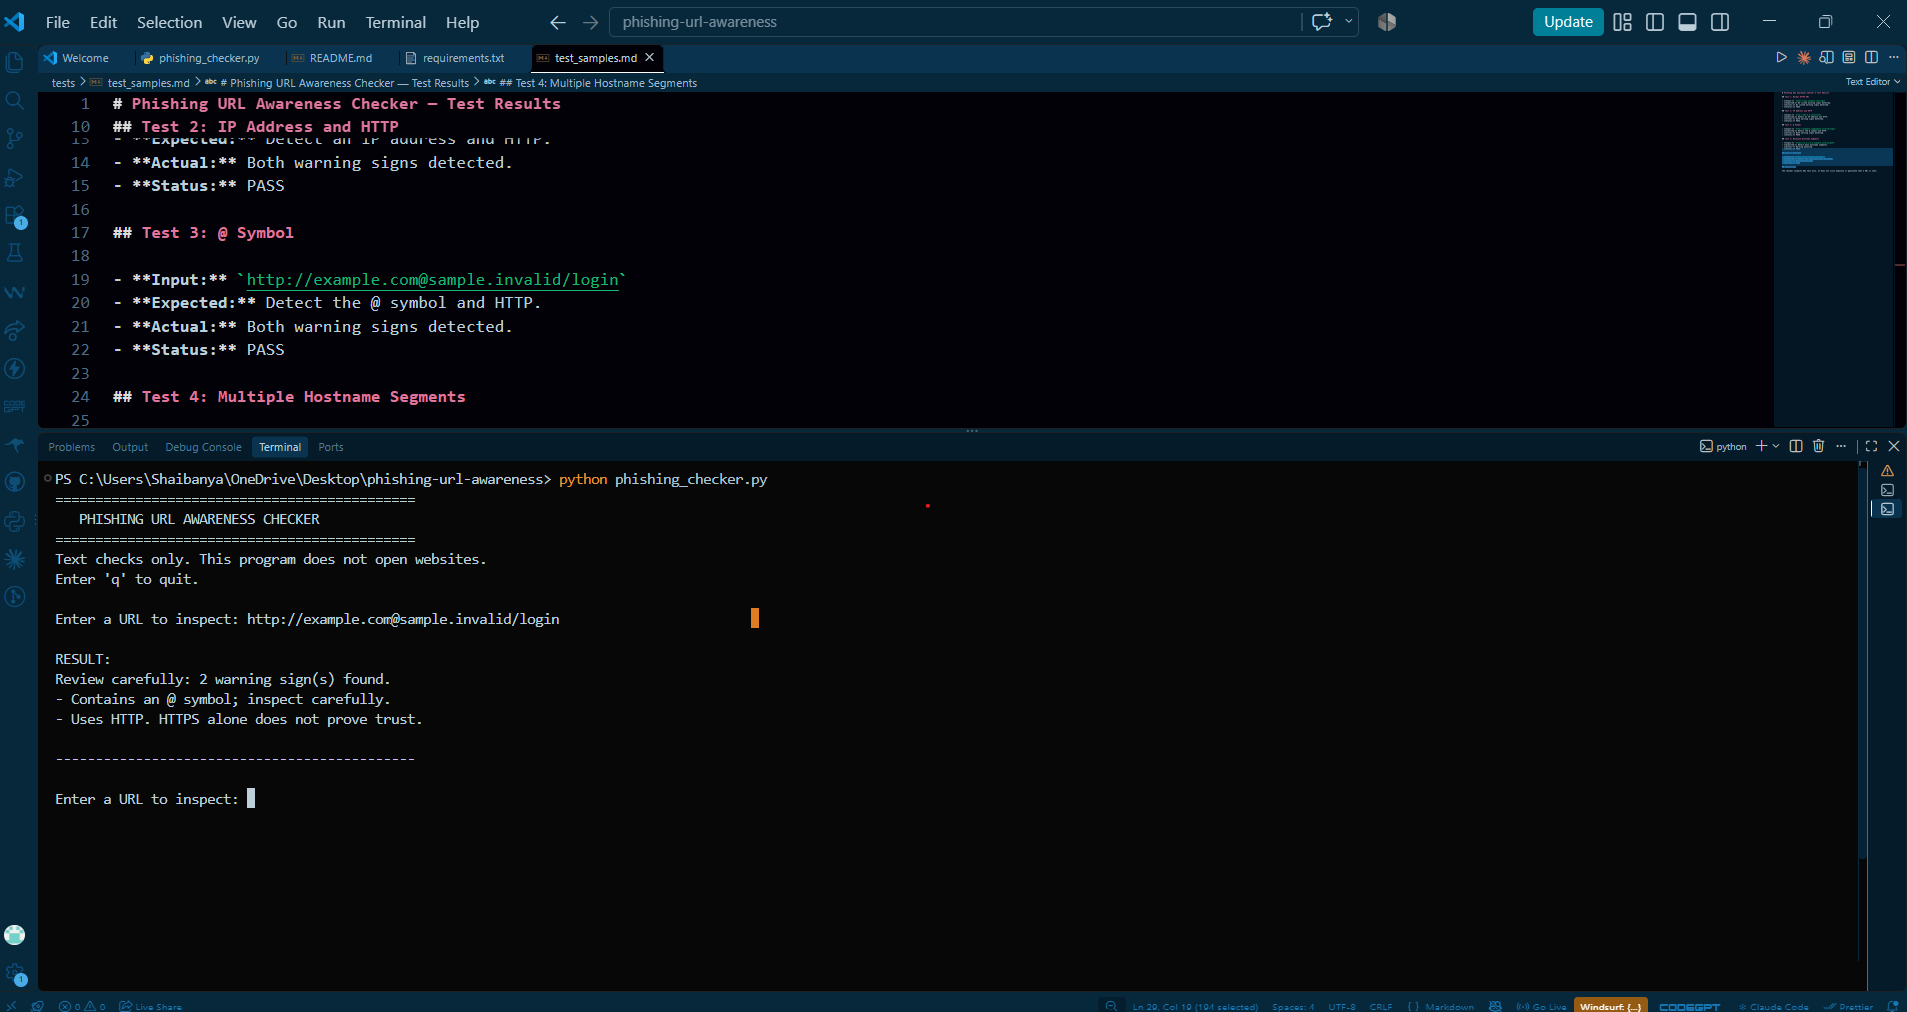
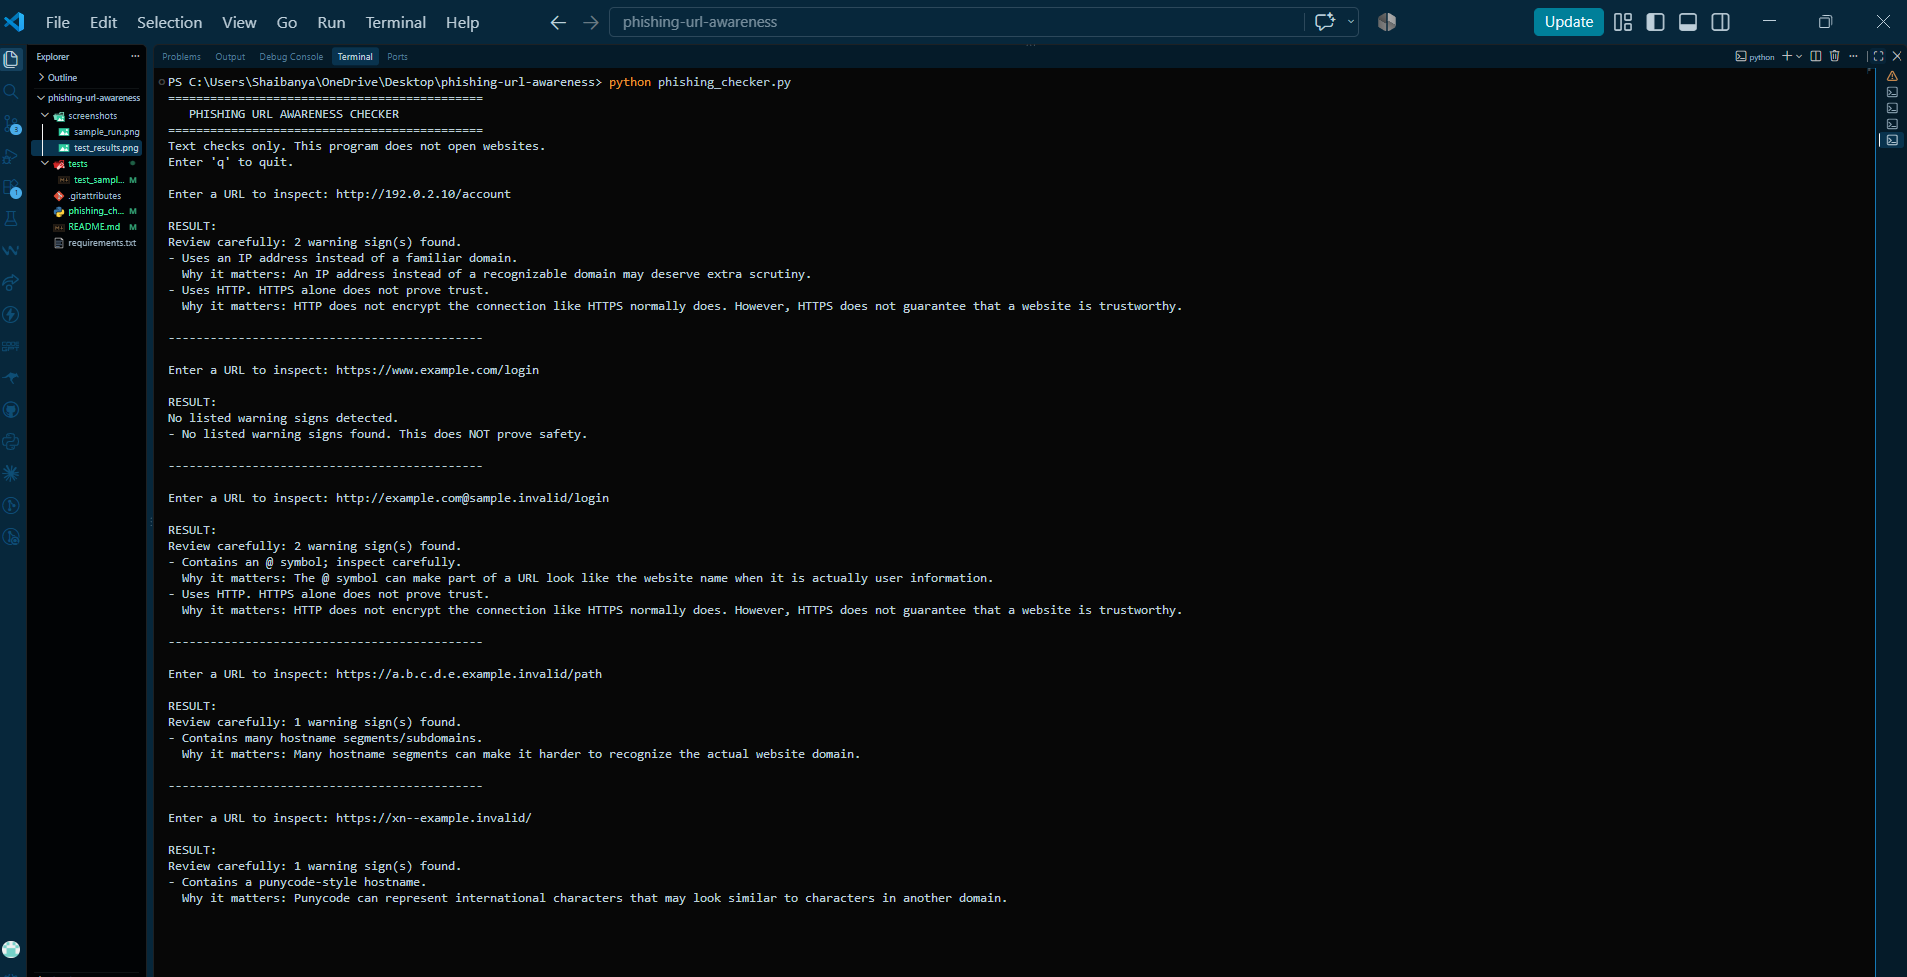
Complete phishing URL awareness checker

diff --git a/phishing_checker.py b/phishing_checker.py
@@ -1,5 +1,33 @@
+
 import re
 from urllib.parse import urlparse
+
+
+# Improvement 2: Explain why each warning sign matters.
+WARNING_REASONS = {
+    "Contains an @ symbol; inspect carefully.":
+        "The @ symbol can make part of a URL look like the website name "
+        "when it is actually user information.",
+
+    "Unusually long URL (over 100 characters).":
+        "An unusually long URL can hide confusing or misleading details.",
+
+    "Uses an IP address instead of a familiar domain.":
+        "An IP address instead of a recognizable domain may deserve "
+        "extra scrutiny.",
+
+    "Contains many hostname segments/subdomains.":
+        "Many hostname segments can make it harder to recognize "
+        "the actual website domain.",
+
+    "Contains a punycode-style hostname.":
+        "Punycode can represent international characters that may "
+        "look similar to characters in another domain.",
+
+    "Uses HTTP. HTTPS alone does not prove trust.":
+        "HTTP does not encrypt the connection like HTTPS normally does. "
+        "However, HTTPS does not guarantee that a website is trustworthy.",
+}
 
 
 def inspect_url(raw_url):
@@ -10,30 +38,54 @@ def inspect_url(raw_url):
         return ["No URL entered."]
 
     candidate = url if "://" in url else "http://" + url
-    parsed = urlparse(candidate)
-    host = (parsed.hostname or "").lower()
+
+    # Improvement 1: Handle malformed URLs without crashing.
+    try:
+        parsed = urlparse(candidate)
+        host = (parsed.hostname or "").lower()
+    except ValueError:
+        return ["This text is not a valid URL format."]
 
     if not host:
         return ["Could not identify a hostname."]
 
+    # Check 1: @ symbol
     if "@" in candidate:
-        findings.append("Contains an @ symbol; inspect carefully.")
+        findings.append(
+            "Contains an @ symbol; inspect carefully."
+        )
 
+    # Check 2: URL length
     if len(url) > 100:
-        findings.append("Unusually long URL (over 100 characters).")
+        findings.append(
+            "Unusually long URL (over 100 characters)."
+        )
 
+    # Check 3: IPv4-style hostname
     if re.fullmatch(r"(?:\d{1,3}\.){3}\d{1,3}", host):
-        findings.append("Uses an IP address instead of a familiar domain.")
+        findings.append(
+            "Uses an IP address instead of a familiar domain."
+        )
 
+    # Check 4: Many hostname segments
     labels = [part for part in host.split(".") if part]
+
     if len(labels) >= 5:
-        findings.append("Contains many hostname segments/subdomains.")
+        findings.append(
+            "Contains many hostname segments/subdomains."
+        )
 
+    # Check 5: Punycode marker
     if "xn--" in host:
-        findings.append("Contains a punycode-style hostname.")
+        findings.append(
+            "Contains a punycode-style hostname."
+        )
 
+    # Check 6: HTTP scheme
     if parsed.scheme.lower() == "http":
-        findings.append("Uses HTTP. HTTPS alone does not prove trust.")
+        findings.append(
+            "Uses HTTP. HTTPS alone does not prove trust."
+        )
 
     if not findings:
         findings.append(
@@ -65,15 +117,27 @@ def main():
             "No listed warning signs found. This does NOT prove safety."
         ]:
             print("No listed warning signs detected.")
+
         elif findings == ["No URL entered."]:
             print("Please enter a URL.")
+
         elif findings == ["Could not identify a hostname."]:
             print("Unable to inspect this input.")
+
+        elif findings == ["This text is not a valid URL format."]:
+            print("Unable to inspect this malformed URL.")
+
         else:
-            print(f"Review carefully: {len(findings)} warning sign(s) found.")
+            print(
+                f"Review carefully: {len(findings)} warning sign(s) found."
+            )
 
         for finding in findings:
             print("- " + finding)
+
+            # Display the reason associated with each warning.
+            if finding in WARNING_REASONS:
+                print("  Why it matters: " + WARNING_REASONS[finding])
 
         print("\n" + "-" * 45 + "\n")
 

diff --git a/README.md b/README.md
@@ -1,39 +1,196 @@
-# Phishing URL Awareness Checker
+# EWB Phishing URL Awareness Checker
 
 ## Overview
-A beginner-friendly Python command-line project that checks URLs for selected warning signs associated with potentially suspicious links.
+
+Phishing is a type of online fraud in which attackers use fake links or messages to trick people into sharing sensitive information, such as passwords, OTPs, or payment details.
+
+The Phishing URL Awareness Checker is a beginner-friendly Python project that examines URL text for common phishing warning signs. It helps users recognize potentially suspicious URL patterns without opening websites or sending information anywhere.
+
+This is an educational project designed to improve awareness of online safety.
 
 ## Features
-- Detects the `@` symbol.
-- Flags URLs longer than 100 characters.
-- Detects IPv4-style hostnames.
-- Flags hostnames with five or more segments.
-- Detects the `xn--` punycode marker.
-- Flags URLs using HTTP.
-- Allows multiple URLs to be checked in one session.
+
+The program checks for six warning signs:
+
+1. **@ Symbol:** Flags URLs containing an `@` symbol because it can make the destination confusing.
+2. **Unusually Long URL:** Flags URLs longer than 100 characters.
+3. **IP Address:** Flags URLs that use an IPv4-style address instead of a familiar domain name.
+4. **Many Hostname Segments:** Flags hostnames containing five or more segments.
+5. **Punycode Hostname:** Flags hostnames containing the `xn--` marker, which can represent international characters.
+6. **HTTP Scheme:** Flags URLs using HTTP because the connection does not have the transport encryption normally provided by HTTPS.
+
+Additional features:
+
+- Accepts URL text through a command-line interface.
+- Handles empty input.
+- Handles certain malformed URL formats without crashing.
+- Provides explanations of why each detected warning sign matters.
+- Allows the user to exit by entering `q`, `quit`, or `exit`.
+- Does not visit websites or make network requests.
+
+**Important:** These checks identify warning signs, not confirmed phishing attacks. HTTPS does not guarantee that a website is trustworthy, and the absence of warnings does not prove that a URL is safe.
 
 ## Requirements
-- Python 3.10 or newer.
-- No external packages required.
+
+- Python 3.10 or later
+- A terminal or command prompt
+- No additional Python packages required
+
+The program uses Python's standard library.
+
+## Project Structure
+
+```text
+phishing-url-awareness/
+├── screenshots/
+│   ├── sample_run.png
+│   └── test_results.png
+├── tests/
+│   └── test_samples.md
+├── phishing_checker.py
+├── README.md
+└── requirements.txt
+```
 
 ## How to Run
-1. Install Python.
-2. Open the project folder in VS Code.
-3. Open the terminal.
-4. Run `python phishing_checker.py`.
-5. Enter a URL to inspect.
-6. Enter `q` to exit.
+
+### Windows
+
+1. Open the project folder in Visual Studio Code.
+2. Open the terminal.
+3. Run the following command:
+
+```bash
+python phishing_checker.py
+```
+
+If the `python` command is unavailable, try:
+
+```bash
+py phishing_checker.py
+```
+
+### macOS or Linux
+
+Open a terminal in the project folder and run:
+
+```bash
+python3 phishing_checker.py
+```
+
+### Exit the Program
+
+Enter:
+
+```text
+q
+```
+
+You can also enter `quit` or `exit`.
+
+## Example Output
+
+Example input:
+
+```text
+http://192.0.2.10/account
+```
+
+Example output:
+
+```text
+RESULT:
+Review carefully: 2 warning sign(s) found.
+- Uses an IP address instead of a familiar domain.
+  Why it matters: An IP address instead of a recognizable domain may deserve extra scrutiny.
+- Uses HTTP. HTTPS alone does not prove trust.
+  Why it matters: HTTP does not encrypt the connection like HTTPS normally does. However, HTTPS does not guarantee that a website is trustworthy.
+```
+
+The exact formatting depends on the program's current output.
 
 ## Testing
-Five sample URLs are documented in `tests/test_samples.md`.
 
-## Limitations
-This tool inspects URL text only. It does not visit websites, query live threat databases, or guarantee that a URL is safe. It may produce false positives or miss malicious URLs.
+The program is tested using sample URL strings to check whether its warning signs work as expected.
 
-## Ethical Use
-This project is intended for educational awareness and defensive cybersecurity learning. Do not enter passwords or other sensitive information on suspicious websites.
+The test records are maintained in `tests/test_samples.md`.
+
+| Test | Input | Expected result |
+|---|---|---|
+| 1 | `https://www.example.com/login` | No listed warning signs; the program must clarify that this does not prove safety. |
+| 2 | `http://192.0.2.10/account` | IP-address and HTTP warnings. |
+| 3 | `http://example.com@sample.invalid/login` | @-symbol and HTTP warnings. |
+| 4 | `https://a.b.c.d.e.example.invalid/path` | Many hostname segments warning. |
+| 5 | `https://xn--example.invalid/` | Punycode warning. |
+| 6 | `http://[bad` | Malformed URL handled without an unexpected crash. |
+
+The first five cases are the workbook's sample tests. The sixth case checks the malformed-input improvement.
+
+**Testing note:** Record the actual output and PASS or FAIL status in `tests/test_samples.md` after running the program. Do not mark a test as passed unless you have verified its result.
+
+## Screenshots
+
+### Sample Program Run
+
+This screenshot shows an example of the program running in the terminal.
+
+![Sample run](screenshots/sample_run.png)
+
+### Test Results
+
+This screenshot shows additional URL checks and their results.
+
+![Test results](screenshots/test_results.png)
 
 ## Improvements
-- Added an interactive loop for checking multiple URLs.
-- Added warning-sign counts.
-- Added explanatory messages for detected warning signs.
+
+### 1. Malformed URL Handling
+
+**What changed:** Added `try/except ValueError` around URL parsing.
+
+**Why it matters:** Some malformed URL inputs can cause Python's URL parser to raise an error. Handling that error allows the program to display a helpful message instead of unexpectedly stopping.
+
+**How it is tested:** Enter the sample malformed input `http://[bad` and confirm that the program displays an invalid-format message without crashing. Rerun all five required sample tests to check that the original functionality still works.
+
+### 2. Explanations for Warning Signs
+
+**What changed:** Added a `WARNING_REASONS` dictionary that associates warning messages with explanations. When a warning is detected, the program displays the corresponding reason.
+
+**Why it matters:** Explanations help users understand why a URL pattern deserves attention instead of simply displaying a warning.
+
+**How it is tested:** Run sample URLs that trigger different warning signs and verify that each warning is followed by its explanation. Rerun all five required sample tests.
+
+## Limitations
+
+This project is an educational awareness tool, not a complete phishing detection system.
+
+- It only examines the text entered by the user.
+- It does not open URLs or visit websites.
+- It does not check website reputation or domain registration.
+- It does not scan for malware.
+- It does not determine whether a website is legitimate.
+- Some legitimate URLs may trigger warnings.
+- Some malicious URLs may trigger no warnings.
+- HTTPS does not guarantee that a website is safe.
+- No listed warning signs does **NOT** mean a URL is safe.
+
+Users should check website addresses carefully and avoid entering sensitive information on unfamiliar or suspicious websites.
+
+## Ethical Use
+
+This project is intended for cybersecurity education and online safety awareness.
+
+- Use sample URL strings for testing.
+- Do not collect passwords, OTPs, payment details, or other sensitive information.
+- Do not use the project to deceive people.
+- Do not test websites or systems without permission.
+- Do not treat the program's results as a guarantee of safety.
+- Use the tool responsibly to learn about suspicious URL patterns.
+
+## Author
+
+**Shaibanya Dey**
+
+EWB Courses — Cybersecurity Mini Project
+
+**Project:** Phishing URL Awareness Checker

diff --git a/tests/test_samples.md b/tests/test_samples.md
@@ -3,7 +3,7 @@
 ## Test 1: Normal HTTPS URL
 
 - **Input:** `https://www.example.com/login`
-- **Expected:** No listed warning signs detected.
+- **Expected:** No listed warning signs detected. The program should clarify that this does not prove safety.
 - **Actual:** No listed warning signs detected.
 - **Status:** PASS
 
@@ -35,6 +35,13 @@
 - **Actual:** Warning detected.
 - **Status:** PASS
 
+## Test 6: Malformed URL
+
+- **Input:** `http://[bad`
+- **Expected:** Display an invalid URL format message without crashing.
+- **Actual:** Displayed `Unable to inspect this malformed URL.` and `This text is not a valid URL format.` without crashing.
+- **Status:** PASS
+
 ## Limitations
 
-The checker inspects URL text only. It does not visit websites or guarantee that a URL is safe.
+The checker inspects URL text only. It does not visit websites, scan for malware, or guarantee that a URL is safe. No listed warning signs does not mean a URL is safe.
